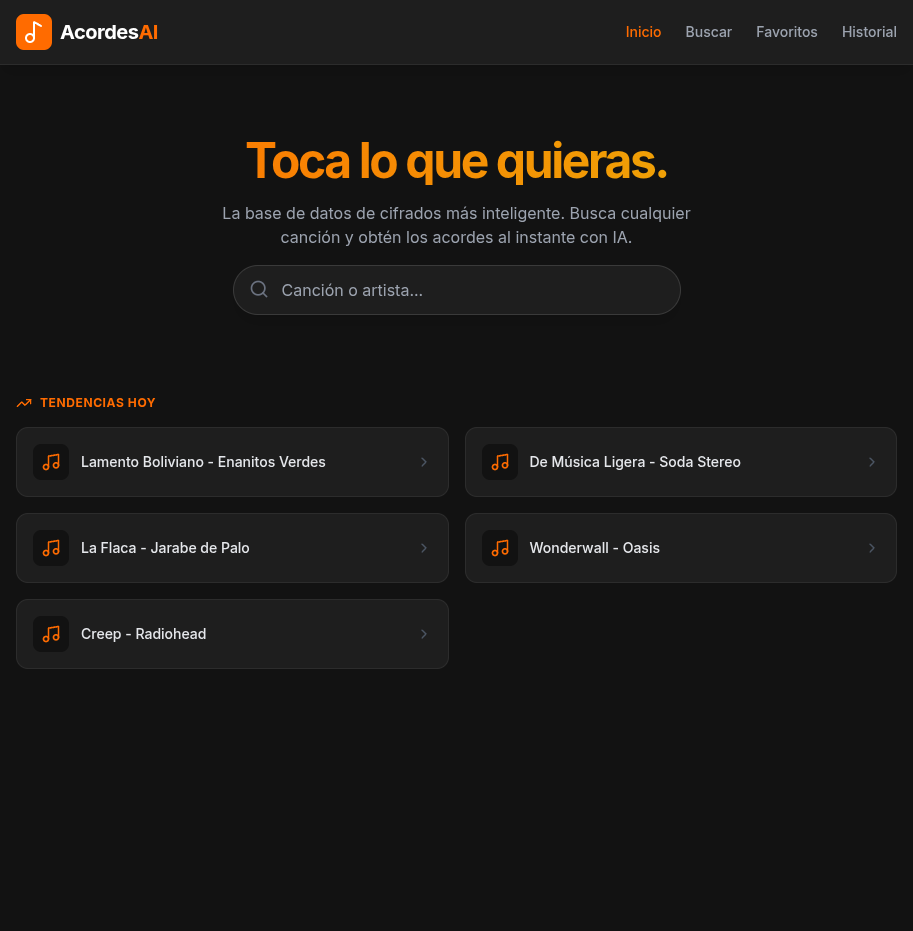
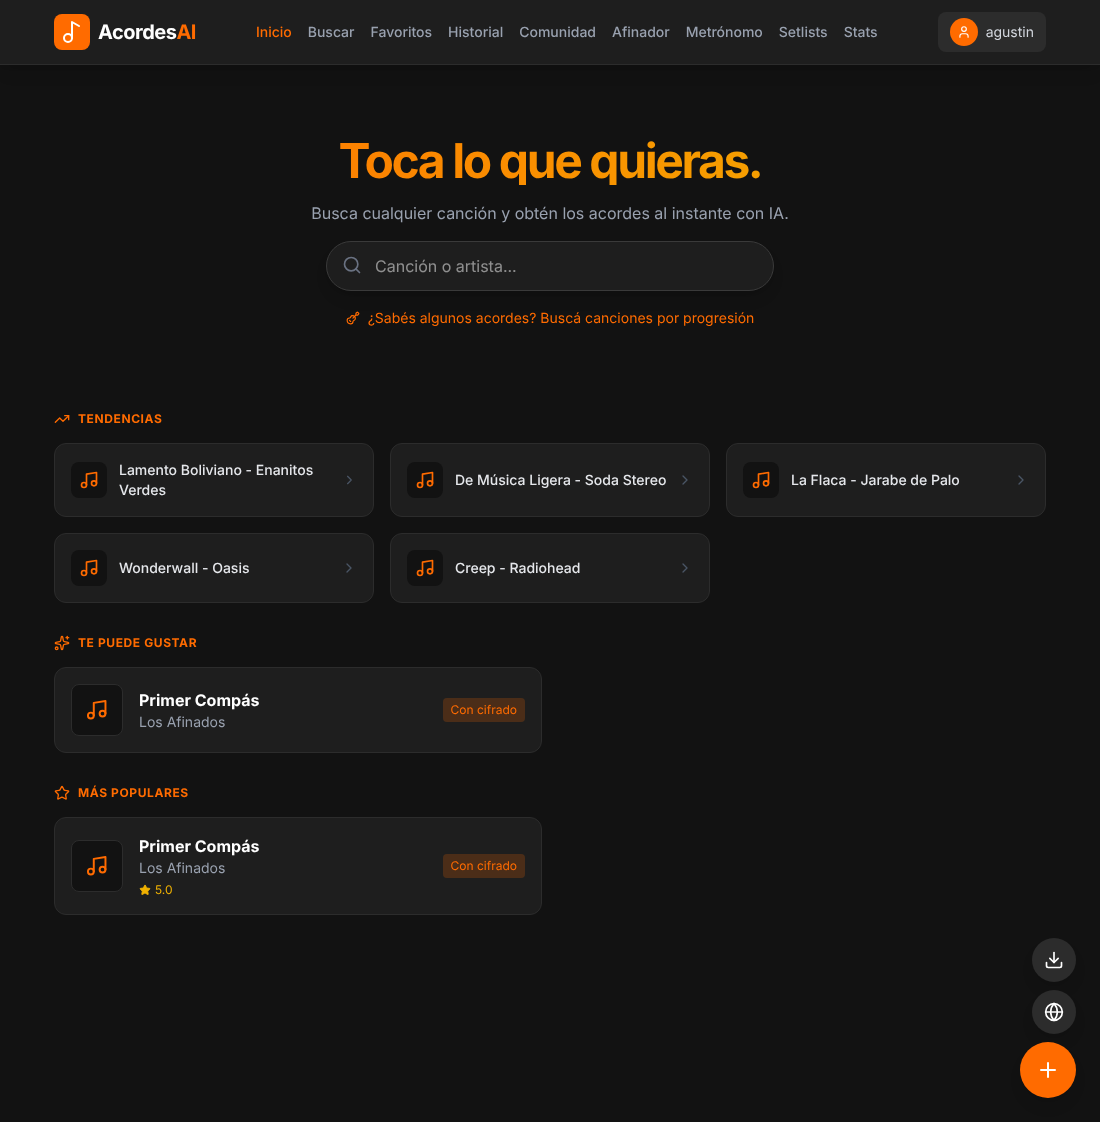
fix(ui) + docs: 4 bugs de la app, capturas nuevas, licencia MIT y landing en naranja (#582)
* fix(ui): header que no entra, rating sin redondear, estrellas propias y color de marca

Encontrados al sacar capturas nuevas de la app:
- Header: la barra de 9 secciones se mostraba desde md (768px) pero recién
  entra desde ~1024px; entre 768 y 1024 el logo se pegaba a "Inicio" y el
  usuario quedaba cortado. Ahora la barra superior aparece desde lg y por
  debajo se usa la inferior (la de mobile). gap-4 entre ítems.
- Home y Comunidad mostraban el promedio crudo de Postgres
  ("5.0000000000000000") y una estrella con "0" en canciones sin rating.
  Ahora se redondea a 1 decimal y solo se muestra si es > 0.
- Al recargar una canción las estrellas propias aparecían vacías:
  GET /api/ratings/:id solo devolvía promedio y cantidad. Ahora, si viene
  un token válido, devuelve también `mine` y el viewer lo pinta.
- Diagramas de acordes y botones de modales tenían #4f46e5 (violeta de
  una versión vieja); la marca es #FF6B00 (index.css @theme).
- Tests: test/components/CommunityPage.test.tsx y caso `mine` en
  backend/test/integration/setlists.test.ts (ambos fallan sin el fix).

Claude-Session: https://claude.ai/code/session_01Hx554UUELrohxJigN9Pdck

* docs: capturas nuevas, licencia MIT y landing con los colores reales

- docs/screenshots: capturas de la app actual (1100 px, sesión iniciada)
  con una canción de ejemplo con letra original, sin derechos de terceros.
  Las usan el README y la landing.
- LICENSE (MIT) y "license": "MIT" en ambos package.json: el README ya
[…]

diff --git a/landing/index.html b/landing/index.html
@@ -26,8 +26,8 @@
       --line: #3a3a3a;
       --text: #f2f2f3;
       --muted: #a1a1aa;
-      --brand: #4f46e5;
-      --brand-soft: #8b85ff;
+      --brand: #ff6b00;
+      --brand-soft: #ff9a4d;
       --radius: 16px;
       --max: 1080px;
     }
@@ -49,7 +49,8 @@
     header { position: sticky; top: 0; z-index: 10; background: rgba(18,18,18,.85); backdrop-filter: blur(10px); border-bottom: 1px solid #ffffff10; }
     .nav { display: flex; align-items: center; justify-content: space-between; height: 60px; }
     .logo { display: flex; align-items: center; gap: 10px; font-weight: 800; text-decoration: none; letter-spacing: -.01em; }
-    .logo img { width: 30px; height: 30px; border-radius: 8px; }
+    .logo-mark { width: 32px; height: 32px; border-radius: 8px; background: var(--brand); color: #fff; display: grid; place-items: center; }
+    .logo-mark svg { width: 18px; height: 18px; }
     .nav-links { display: flex; gap: 20px; align-items: center; font-size: 14px; color: var(--muted); }
     .nav-links a { text-decoration: none; }
     .nav-links a:hover { color: var(--text); }
@@ -58,8 +59,8 @@
     /* Buttons */
     .btn { display: inline-flex; align-items: center; gap: 8px; padding: 12px 20px; border-radius: 999px; font-weight: 600; text-decoration: none; font-size: 15px; transition: transform .15s, background .15s, border-color .15s; }
     .btn:hover { transform: translateY(-1px); }
-    .btn-primary { background: var(--brand); color: #fff; box-shadow: 0 8px 30px -8px rgba(79,70,229,.7); }
-    .btn-primary:hover { background: #5b53f0; }
+    .btn-primary { background: var(--brand); color: #fff; box-shadow: 0 8px 30px -8px rgba(255,107,0,.7); }
+    .btn-primary:hover { background: #ff7f24; }
     .btn-ghost { border: 1px solid var(--line); background: var(--surface); }
     .btn-ghost:hover { border-color: #55555f; }
     .btn-sm { padding: 8px 14px; font-size: 14px; }
@@ -69,11 +70,11 @@
     .hero { position: relative; padding: 80px 0 56px; text-align: center; }
     .hero::before {
       content: ""; position: absolute; inset: -120px 0 auto; height: 520px; z-index: -1;
-      background: radial-gradient(600px 300px at 50% 30%, rgba(79,70,229,.35), transparent 70%);
+      background: radial-gradient(600px 300px at 50% 30%, rgba(255,107,0,.35), transparent 70%);
     }
-    .pill { display: inline-block; font-size: 13px; color: var(--brand-soft); background: rgba(79,70,229,.12); border: 1px solid rgba(79,70,229,.35); padding: 4px 12px; border-radius: 999px; margin-bottom: 22px; }
+    .pill { display: inline-block; font-size: 13px; color: var(--brand-soft); background: rgba(255,107,0,.12); border: 1px solid rgba(255,107,0,.35); padding: 4px 12px; border-radius: 999px; margin-bottom: 22px; }
     h1 { font-size: clamp(36px, 7vw, 64px); line-height: 1.05; letter-spacing: -.035em; margin: 0 0 18px; font-weight: 800; }
-    h1 .grad { background: linear-gradient(90deg, #a5a1ff, #6d65ff); -webkit-background-clip: text; background-clip: text; color: transparent; }
+    h1 .grad { background: linear-gradient(90deg, #ffb070, #ff6b00); -webkit-background-clip: text; background-clip: text; color: transparent; }
     .lead { font-size: clamp(17px, 2.4vw, 20px); color: var(--muted); max-width: 620px; margin: 0 auto 32px; }
     .ctas { display: flex; gap: 12px; justify-content: center; flex-wrap: wrap; }
     .note { margin-top: 14px; font-size: 13px; color: var(--muted); }
@@ -93,7 +94,7 @@
     @media (max-width: 860px) { .grid { grid-template-columns: repeat(2, 1fr); } }
     @media (max-width: 560px) { .grid { grid-template-columns: 1fr; } }
     .card { background: var(--surface); border: 1px solid #ffffff10; border-radius: var(--radius); padding: 22px; }
-    .card .ico { width: 40px; height: 40px; border-radius: 10px; display: grid; place-items: center; background: rgba(79,70,229,.15); color: var(--brand-soft); margin-bottom: 14px; }
+    .card .ico { width: 40px; height: 40px; border-radius: 10px; display: grid; place-items: center; background: rgba(255,107,0,.15); color: var(--brand-soft); margin-bottom: 14px; }
     .card .ico svg { width: 22px; height: 22px; }
     .card h3 { margin: 0 0 6px; font-size: 17px; }
     .card p { margin: 0; color: var(--muted); font-size: 15px; }
@@ -110,12 +111,12 @@
     .screens { display: grid; grid-template-columns: repeat(3, 1fr); gap: 16px; align-items: start; }
     @media (max-width: 760px) { .screens { grid-template-columns: 1fr; max-width: 420px; margin: 0 auto; } }
     figure { margin: 0; }
-    .shot img { aspect-ratio: 913 / 931; object-fit: cover; object-position: top; width: 100%; }
+    .shot img { aspect-ratio: 1100 / 1122; object-fit: cover; object-position: top; width: 100%; }
     .shot { border-radius: 14px; overflow: hidden; border: 1px solid #ffffff14; background: var(--surface); box-shadow: 0 20px 50px -20px rgba(0,0,0,.8); }
     figcaption { font-size: 14px; color: var(--muted); text-align: center; margin-top: 10px; }
 
     /* Download band */
-    .band { background: linear-gradient(135deg, rgba(79,70,229,.22), rgba(79,70,229,.05)); border: 1px solid rgba(79,70,229,.35); border-radius: 24px; padding: 40px 24px; text-align: center; }
+    .band { background: linear-gradient(135deg, rgba(255,107,0,.22), rgba(255,107,0,.05)); border: 1px solid rgba(255,107,0,.35); border-radius: 24px; padding: 40px 24px; text-align: center; }
     .band h2 { margin-bottom: 10px; }
     .band p { color: var(--muted); margin: 0 auto 24px; max-width: 520px; }
 
@@ -139,7 +140,7 @@
 <body>
   <header>
     <div class="wrap nav">
-      <a class="logo" href="#"><img src="assets/pwa-192x192.png" alt="">AcordesAI</a>
+      <a class="logo" href="#"><span class="logo-mark" aria-hidden="true"><svg viewBox="0 0 24 24" fill="none" stroke="currentColor" stroke-width="2.2" stroke-linecap="round" stroke-linejoin="round"><path d="M9 18V5l12-2v13"/><circle cx="6" cy="18" r="3"/><circle cx="18" cy="16" r="3"/></svg></span><span>Acordes<span style="color:var(--brand)">AI</span></span></a>
       <nav class="nav-links" aria-label="Secciones">
         <a class="hide-sm" href="#funciones">Funciones</a>
         <a class="hide-sm" href="#capturas">Capturas</a>
@@ -152,7 +153,7 @@
   <main>
     <section class="hero">
       <div class="wrap">
-        <span class="pill">Gratis · Código abierto · Sin anuncios</span>
+        <span class="pill">Gratis · Código abierto (MIT) · Sin anuncios</span>
         <h1>Tocá lo que quieras.<br><span class="grad">Los acordes, al instante.</span></h1>
         <p class="lead">Buscá cualquier canción y AcordesAI te da el cifrado para guitarra, ukelele o piano. Transponé, poné el autoscroll y armá tus setlists para tocar en vivo.</p>
         <div class="ctas">
@@ -235,9 +236,9 @@
           <p>Modo oscuro, pensada para el celular y para leer de lejos.</p>
         </div>
         <div class="screens">
-          <figure><div class="shot"><img src="assets/01-home.png" alt="Pantalla de inicio de AcordesAI con buscador y tendencias" loading="lazy" width="913" height="931"></div><figcaption>Inicio</figcaption></figure>
-          <figure><div class="shot"><img src="assets/02-search.png" alt="Resultados de búsqueda de canciones" loading="lazy" width="913" height="931"></div><figcaption>Búsqueda</figcaption></figure>
-          <figure><div class="shot"><img src="assets/03-song-view.png" alt="Canción con acordes sobre la letra" loading="lazy" width="905" height="1459"></div><figcaption>Canción con acordes</figcaption></figure>
+          <figure><div class="shot"><img src="assets/01-home.png" alt="Pantalla de inicio de AcordesAI con buscador y tendencias" loading="lazy" width="1100" height="1122"></div><figcaption>Inicio</figcaption></figure>
+          <figure><div class="shot"><img src="assets/02-search.png" alt="Resultados de búsqueda de canciones" loading="lazy" width="1100" height="1122"></div><figcaption>Búsqueda</figcaption></figure>
+          <figure><div class="shot"><img src="assets/03-song-view.png" alt="Canción con acordes sobre la letra" loading="lazy" width="1100" height="1773"></div><figcaption>Canción con acordes</figcaption></figure>
         </div>
       </div>
     </section>
@@ -261,7 +262,7 @@
           <h2>Hecha en abierto</h2>
           <p style="color: var(--muted); margin: 0 0 18px;">El código está en GitHub. Podés usarla, revisarla, sugerir mejoras o montarla en tu propio servidor.</p>
           <ul>
-            <li>Código abierto: todo está en GitHub</li>
+            <li>Licencia MIT: todo el código está en GitHub</li>
             <li>Sin anuncios</li>
             <li>Funciona offline para tu biblioteca</li>
           </ul>

diff --git a/components/Layout.tsx b/components/Layout.tsx
@@ -17,9 +17,9 @@ export const Layout: React.FC<LayoutProps> = ({ children, activeTab, onNavigate,
   useAuth();
 
   return (
-    <div className="min-h-screen bg-dark-900 text-white flex flex-col pb-20 md:pb-0">
+    <div className="min-h-screen bg-dark-900 text-white flex flex-col pb-20 lg:pb-0">
       <header className="sticky top-0 z-50 bg-dark-800 border-b border-dark-700 shadow-lg">
-        <div className="max-w-5xl mx-auto px-4 h-16 flex items-center justify-between">
+        <div className="max-w-5xl mx-auto px-4 h-16 flex items-center justify-between gap-6">
           <div className="flex items-center gap-2 cursor-pointer" onClick={() => onNavigate('HOME')}>
             <div className="bg-brand p-1.5 rounded-lg">
               <Music2 size={24} className="text-white" />
@@ -27,7 +27,7 @@ export const Layout: React.FC<LayoutProps> = ({ children, activeTab, onNavigate,
             <span className="text-xl font-bold tracking-tight">Acordes<span className="text-brand">AI</span></span>
           </div>
 
-          <nav className="hidden md:flex items-center gap-6">
+          <nav className="hidden lg:flex items-center gap-4">
             <button onClick={() => onNavigate('HOME')} className={`text-sm font-medium hover:text-brand transition ${activeTab === 'HOME' ? 'text-brand' : 'text-gray-400'}`}>
               Inicio
             </button>
@@ -92,7 +92,7 @@ export const Layout: React.FC<LayoutProps> = ({ children, activeTab, onNavigate,
         {children}
       </main>
 
-      <div className="md:hidden fixed bottom-0 left-0 right-0 bg-dark-800 border-t border-dark-700 pb-safe z-50">
+      <div className="lg:hidden fixed bottom-0 left-0 right-0 bg-dark-800 border-t border-dark-700 pb-safe z-50">
         <div className="flex justify-around items-center h-16">
           <button onClick={() => onNavigate('HOME')} className={`flex flex-col items-center gap-1 w-full h-full justify-center ${activeTab === 'HOME' ? 'text-brand' : 'text-gray-500'}`}>
             <Home size={20} /><span className="text-[10px]">Inicio</span>

diff --git a/backend/src/routes/ratings.ts b/backend/src/routes/ratings.ts
@@ -1,6 +1,19 @@
 import { Router, Request, Response } from 'express';
 import { query } from '../db';
+import jwt from 'jsonwebtoken';
 import { requireAuth, AuthRequest } from '../middleware/auth';
+import { JWT_SECRET } from '../env';
+
+// Ruta pública: si viene un token válido se suma la calificación propia; si no, se ignora.
+const optionalUserId = (req: Request): number | null => {
+  const token = req.headers.authorization?.replace('Bearer ', '');
+  if (!token) return null;
+  try {
+    return (jwt.verify(token, JWT_SECRET) as { userId: number }).userId;
+  } catch {
+    return null;
+  }
+};
 
 export default function createRatingsRouter(): Router {
   const router = Router();
@@ -12,9 +25,14 @@ export default function createRatingsRouter(): Router {
         `SELECT AVG(score) as avg, COUNT(*) as count FROM ratings WHERE song_id = $1`,
         [songId]
       );
+      const userId = optionalUserId(req);
+      const mine = userId
+        ? (await query('SELECT score FROM ratings WHERE song_id = $1 AND user_id = $2', [songId, userId]))?.rows?.[0]?.score ?? null
+        : null;
       res.json({
         average: result.rows[0]?.avg ? parseFloat(result.rows[0].avg).toFixed(1) : null,
-        count: parseInt(result.rows[0]?.count) || 0
+        count: parseInt(result.rows[0]?.count) || 0,
+        mine,
       });
     } catch (e) {
       res.status(500).json({ error: 'Error fetching ratings' });

diff --git a/components/PianoChordDiagram.tsx b/components/PianoChordDiagram.tsx
@@ -38,7 +38,7 @@ export const PianoChordDiagram: React.FC<Props> = ({ chordName, width = 200 }) =
           const isHi = highlighted.has(midi);
           return (
             <g key={`w-${oct}-${note}`}>
-              <rect x={x} y={padTop} width={whiteWidth - 1} height={whiteHeight} rx={2} fill={isHi ? '#4f46e5' : '#f9fafb'} stroke="#6b7280" />
+              <rect x={x} y={padTop} width={whiteWidth - 1} height={whiteHeight} rx={2} fill={isHi ? '#FF6B00' : '#f9fafb'} stroke="#6b7280" />
               {isHi && (
                 <text x={x + whiteWidth / 2} y={padTop + whiteHeight - 6} textAnchor="middle" fontSize="9" fontWeight="700" fill="#fff">{noteName}</text>
               )}
@@ -62,7 +62,7 @@ export const PianoChordDiagram: React.FC<Props> = ({ chordName, width = 200 }) =
           const isHi = highlighted.has(midi);
           const x = baseX + offset * whiteWidth - blackWidth / 2;
           return (
-            <rect key={`b-${oct}-${sharp}`} x={x} y={padTop} width={blackWidth} height={blackHeight} rx={1.5} fill={isHi ? '#4f46e5' : '#1f2937'} stroke="#0f172a" strokeWidth={0.6} />
+            <rect key={`b-${oct}-${sharp}`} x={x} y={padTop} width={blackWidth} height={blackHeight} rx={1.5} fill={isHi ? '#FF6B00' : '#1f2937'} stroke="#0f172a" strokeWidth={0.6} />
           );
         });
       })}

diff --git a/test/components/CommunityPage.test.tsx b/test/components/CommunityPage.test.tsx
@@ -1,0 +1,20 @@
+import { render, screen } from '@testing-library/react';
+import { describe, expect, it, vi } from 'vitest';
+import { CommunityPage } from '../../components/pages/CommunityPage';
+import type { Song } from '../../types';
+
+const base = { loading: false, page: 0, onPageChange: vi.fn(), onSelectSong: vi.fn(), onNewClick: vi.fn(), onSearchClick: vi.fn() };
+const song = (id: string, rating: unknown): Song => ({ id, title: `Canción ${id}`, artist: 'Banda', rating } as unknown as Song);
+
+describe('CommunityPage ratings', () => {
+  it('rounds the average that Postgres returns as a long numeric string', () => {
+    render(<CommunityPage {...base} songs={[song('1', '5.0000000000000000')]} />);
+    expect(screen.getByText('5.0')).toBeInTheDocument();
+    expect(screen.queryByText('5.0000000000000000')).not.toBeInTheDocument();
+  });
+
+  it('hides the star for unrated songs (rating "0")', () => {
+    render(<CommunityPage {...base} songs={[song('2', '0')]} />);
+    expect(screen.queryByText('0')).not.toBeInTheDocument();
+  });
+});

diff --git a/components/UkuleleChordDiagram.tsx b/components/UkuleleChordDiagram.tsx
@@ -51,7 +51,7 @@ export const UkuleleChordDiagram: React.FC<Props> = ({ shape, width = 110 }) => 
         const fret = shape.barre.fret - offset;
         const x1 = xForString(shape.barre.fromString);
         const x2 = xForString(shape.barre.toString);
-        return <rect x={x1 - 6} y={yForFret(fret) - 6} width={x2 - x1 + 12} height={12} rx={6} fill="#4f46e5" opacity={0.85} />;
+        return <rect x={x1 - 6} y={yForFret(fret) - 6} width={x2 - x1 + 12} height={12} rx={6} fill="#FF6B00" opacity={0.85} />;
       })()}
 
       {shape.frets.map((f, i) => {
@@ -63,7 +63,7 @@ export const UkuleleChordDiagram: React.FC<Props> = ({ shape, width = 110 }) => 
         const finger = shape.fingers?.[i] ?? 0;
         return (
           <g key={`d-${i}`}>
-            <circle cx={cx} cy={cy} r={7} fill="#4f46e5" />
+            <circle cx={cx} cy={cy} r={7} fill="#FF6B00" />
             {finger > 0 && <text x={cx} y={cy + 3} textAnchor="middle" fontSize="9" fill="#fff" fontWeight="700">{finger}</text>}
           </g>
         );

diff --git a/components/ChordDiagram.tsx b/components/ChordDiagram.tsx
@@ -51,7 +51,7 @@ export const ChordDiagram: React.FC<Props> = ({ shape, width = 140 }) => {
         const fret = shape.barre.fret - offset;
         const x1 = xForString(shape.barre.fromString);
         const x2 = xForString(shape.barre.toString);
-        return <rect x={x1 - 6} y={yForFret(fret) - 6} width={x2 - x1 + 12} height={12} rx={6} fill="#4f46e5" opacity={0.85} />;
+        return <rect x={x1 - 6} y={yForFret(fret) - 6} width={x2 - x1 + 12} height={12} rx={6} fill="#FF6B00" opacity={0.85} />;
       })()}
 
       {shape.frets.map((f, i) => {
@@ -63,7 +63,7 @@ export const ChordDiagram: React.FC<Props> = ({ shape, width = 140 }) => {
         const finger = shape.fingers?.[i] ?? 0;
         return (
           <g key={`d-${i}`}>
-            <circle cx={cx} cy={cy} r={7} fill="#4f46e5" />
+            <circle cx={cx} cy={cy} r={7} fill="#FF6B00" />
             {finger > 0 && <text x={cx} y={cy + 3} textAnchor="middle" fontSize="9" fill="#fff" fontWeight="700">{finger}</text>}
           </g>
         );

diff --git a/components/pages/HomePage.tsx b/components/pages/HomePage.tsx
@@ -114,10 +114,10 @@ export const HomePage: React.FC<Props> = ({ searchQuery, onSearchQueryChange, on
                   <h3 className="font-bold text-white text-base truncate">{song.title}</h3>
                   <p className="text-gray-400 text-sm truncate">{song.artist}</p>
                   <div className="flex items-center gap-3 mt-1">
-                    {song.rating && (
+                    {Number(song.rating) > 0 && (
                       <div className="flex items-center gap-1 text-yellow-500">
                         <Star size={12} fill="currentColor" />
-                        <span className="text-xs">{song.rating}</span>
+                        <span className="text-xs">{Number(song.rating).toFixed(1)}</span>
                       </div>
                     )}
                   </div>

diff --git a/components/pages/CommunityPage.tsx b/components/pages/CommunityPage.tsx
@@ -41,10 +41,10 @@ export const CommunityPage: React.FC<Props> = ({ songs, loading, page, onPageCha
                 <p className="text-gray-400 text-sm truncate">{song.artist}</p>
                 <div className="flex items-center gap-3 mt-1">
                   {song.author && <span className="text-xs text-gray-500">por {song.author}</span>}
-                  {song.rating && (
+                  {Number(song.rating) > 0 && (
                     <div className="flex items-center gap-1 text-yellow-500">
                       <Star size={12} fill="currentColor" />
-                      <span className="text-xs">{song.rating}</span>
+                      <span className="text-xs">{Number(song.rating).toFixed(1)}</span>
                     </div>
                   )}
                 </div>

diff --git a/backend/test/integration/setlists.test.ts b/backend/test/integration/setlists.test.ts
@@ -78,6 +78,10 @@ describe('setlists + ratings against Postgres', () => {
     await request(app).post(`/api/ratings/${songs[0]}`).set(auth(other.token)).send({ score: 4 });
 
     const r = await request(app).get(`/api/ratings/${songs[0]}`);
-    expect(r.body).toEqual({ average: '4.5', count: 2 });
+    expect(r.body).toEqual({ average: '4.5', count: 2, mine: null });
+
+    // Con sesión se devuelve la calificación propia, para pintar las estrellas al recargar.
+    const mine = await request(app).get(`/api/ratings/${songs[0]}`).set(auth(user.token));
+    expect(mine.body).toEqual({ average: '4.5', count: 2, mine: 5 });
   });
 });

diff --git a/components/ImportUrlModal.tsx b/components/ImportUrlModal.tsx
@@ -146,5 +146,5 @@ const cancelButtonStyle: React.CSSProperties = {
   padding: '0.5rem 1rem', background: '#374151', border: 'none', borderRadius: '0.5rem', color: '#fff', cursor: 'pointer',
 };
 const primaryButtonStyle: React.CSSProperties = {
-  display: 'flex', alignItems: 'center', padding: '0.5rem 1rem', background: '#4f46e5', border: 'none', borderRadius: '0.5rem', color: '#fff', cursor: 'pointer',
+  display: 'flex', alignItems: 'center', padding: '0.5rem 1rem', background: '#FF6B00', border: 'none', borderRadius: '0.5rem', color: '#fff', cursor: 'pointer',
 };

diff --git a/components/AuthModal.tsx b/components/AuthModal.tsx
@@ -150,7 +150,7 @@ const inputStyle: React.CSSProperties = {
 const buttonStyle: React.CSSProperties = {
   width: '100%',
   padding: '0.75rem',
-  background: '#4f46e5',
+  background: '#FF6B00',
   color: '#fff',
   border: 'none',
   borderRadius: '4px',
@@ -189,7 +189,7 @@ const oauthButtonStyle: React.CSSProperties = {
 const linkStyle: React.CSSProperties = {
   background: 'none',
   border: 'none',
-  color: '#4f46e5',
+  color: '#FF6B00',
   cursor: 'pointer',
   textDecoration: 'underline',
 };
